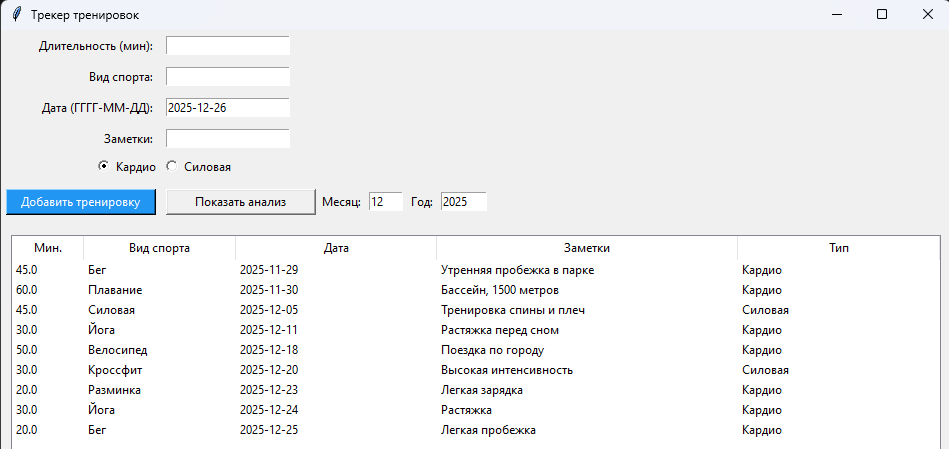
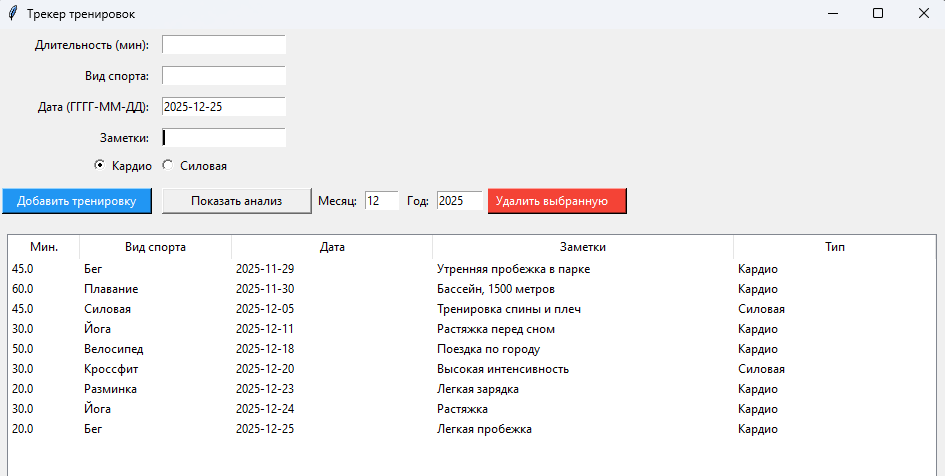
Final: Добавлена функция удаления, обновлен storage и скриншоты в README

diff --git a/gui.py b/gui.py
@@ -49,6 +49,9 @@ class WorkoutApp:
         # --- Кнопки и управление ---
         tk.Button(root, text="Добавить тренировку", command=self.add_data, bg="#2196F3", fg="white", width=20).grid(
             row=5, column=0, pady=10, padx=5)
+        # Кнопка удаления выбранной записи
+        tk.Button(root, text="Удалить выбранную", command=self.delete_data, bg="#F44336", fg="white", width=20).grid(
+            row=5, column=1, pady=10, padx=5)
 
         # Фрейм аналитики (выбор периода и запуск анализа)
         analysis_frame = tk.Frame(root)
@@ -140,6 +143,41 @@ class WorkoutApp:
             messagebox.showinfo("Успех", "Тренировка добавлена!")
         except Exception as e:
             messagebox.showerror("Ошибка", f"Не удалось сохранить: {e}")
+
+    def delete_data(self):
+        """Удаляет выбранную в таблице запись, используя функцию из storage.py."""
+        # 1. Получаем идентификатор выбранной строки
+        selected_item = self.tree.selection()
+        if not selected_item:
+            messagebox.showwarning("Внимание", "Выберите тренировку для удаления в таблице")
+            return
+
+        # 2. Подтверждение удаления
+        if not messagebox.askyesno("Подтверждение", "Вы уверены, что хотите удалить выбранную тренировку?"):
+            return
+
+        # 3. Получаем данные выбранной строки (значения из колонок таблицы)
+        item_data = self.tree.item(selected_item)['values']
+
+        # 4. Загружаем все тренировки из файла
+        all_workouts = load_workouts()
+
+        # 5. Фильтруем: оставляем всё, кроме удаляемого элемента
+        # Сравниваем по значению (item_data[0]), виду спорта (item_data[1]) и дате (item_data[2])
+        new_workouts = [
+            w for w in all_workouts
+            if not (str(w['value']) == str(item_data[0]) and
+                    w['activity'] == item_data[1] and
+                    w['date'] == item_data[2])
+        ]
+
+        # 6. Используем функцию из storage.py
+        from storage import save_all_workouts
+        save_all_workouts(new_workouts)
+
+        # 7. Обновляем таблицу на экране
+        self.refresh_table()
+        messagebox.showinfo("Успех", "Запись удалена")
 
     def refresh_table(self):
         """Загружает актуальные данные из CSV и перерисовывает содержимое таблицы."""

diff --git a/storage.py b/storage.py
@@ -24,6 +24,20 @@ def save_workout(workouts):
         for w in workouts:
             writer.writerow(w.to_dict())
 
+def save_all_workouts(workout_list):
+    """
+    Полностью перезаписывает файл переданным списком словарей.
+    Используется при удалении данных.
+    """
+    if not os.path.exists(DATA_DIR):
+        os.makedirs(DATA_DIR)
+
+    with open(CSV_FILE, mode='w', newline='', encoding='utf-8') as f:
+        fieldnames = ["value", "activity", "date", "notes", "intensity"]
+        writer = csv.DictWriter(f, fieldnames=fieldnames)
+        writer.writeheader()
+        for w_dict in workout_list:
+            writer.writerow(w_dict)
 
 def load_workouts():
     """Загружает тренировки из папки data."""

diff --git a/README.md b/README.md
@@ -39,11 +39,13 @@
 Укажите вид спорта (например, Бег, Йога или Велосипед).  
 Выберите тип нагрузки (Кардио/Силовая).  
 Нажмите «Добавить тренировку».  
+При необходимости можно удалять ошибочные или устаревшие записи прямо через интерфейс с автоматическим обновлением хранилища.  
 Для просмотра итогов введите месяц и год в блоке анализа и нажмите «Показать анализ».  
 
 ## 📸 Скриншоты
 
 ### Главное окно приложения
+
 ![Главный экран](screenshots/main_window.png)
 
 ### Аналитика и графики
